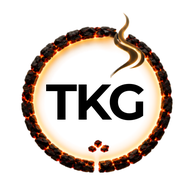
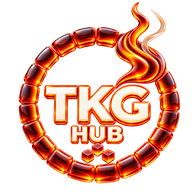
Add files via upload

diff --git a/leaderboard.html b/leaderboard.html
@@ -5,19 +5,17 @@
 <meta name="viewport" content="width=device-width, initial-scale=1, maximum-scale=1, viewport-fit=cover">
 <title>TKG — Khichiya Runner Leaderboard</title>
 <meta name="theme-color" content="#F6F6F5">
-<meta name="description" content="Khichiya Runner — see who's on top right now">
-
+<link rel="manifest" href="./manifest.json">
+<link rel="icon" type="image/png" sizes="32x32" href="./favicon-32.png">
+<link rel="apple-touch-icon" href="./icon-192.png">
 <!-- Theme sync — same anti-FOUC pattern moments_hub.html already uses:
      reads the shared tkg_theme localStorage key before first paint and
      sets data-tkg-theme on <html> immediately, so navigating here from
      another page keeps whichever theme the customer already chose
-     instead of flashing back to light. This page's own content styling
-     doesn't yet respond to dark mode (see :root comment above — no
-     [data-tkg-theme="dark"] override exists for it today, a deliberate,
-     previously-flagged scope decision), but the floating nav pill's
-     existing [data-tkg-theme="dark"] .tkg-global-nav rules were dead
-     code until now since nothing ever set the attribute — this makes
-     those already-written rules actually take effect. -->
+     instead of flashing back to light. The page background (marble)
+     and global ink colors now respond to this attribute too — see the
+     [data-tkg-theme="dark"] block in the styles below. -->
+<meta name="description" content="Khichiya Runner — see who's on top right now">
 <script>
 (function(){
   try{
@@ -87,15 +85,12 @@
   --max-w: 430px;
 
   /* Premium Marble tokens — ported from index.html for the "Visual
-     Alignment" sprint (Task 6). Static/light-only values only: unlike
-     index.html, leaderboard.html has no [data-tkg-theme="dark"] support
-     for its own content today (only .tkg-global-nav's copy-pasted rules
-     respond to dark theme) — adding the marble system's dark-theme pair
-     without the rest of the page also supporting dark theme would make
-     these specific cards flip color while everything around them stays
-     permanently light, which is a worse inconsistency than not
-     supporting dark theme at all. Flagging: full dark-theme support for
-     leaderboard.html would be a separate, larger task. */
+     Alignment" sprint (Task 6), used by card-level marble elements.
+     As of the page-marble-background update, leaderboard.html now DOES
+     have [data-tkg-theme="dark"] support (see the block below) — the
+     card-level marble stays in the deliberate "opposite of page"
+     direction from index.html, while the new page-level marble tokens
+     further down go the same direction as the theme. */
   --tkg-marble-bg-color: #0F0E0C;
   --tkg-marble-image: url('tkg-marble-black.jpg');
   --tkg-marble-overlay: rgba(0,0,0,0.42);
@@ -104,16 +99,42 @@
   --tkg-marble-ink-soft: rgba(242,239,234,0.72);
   --tkg-marble-ink-faint: rgba(242,239,234,0.55);
 
+  /* Page-level marble background — SAME direction as theme (light theme
+     = light marble page, dark theme = dark marble page), unlike the
+     card system above which deliberately goes the opposite direction.
+     Default here is the light-theme pair; the [data-tkg-theme="dark"]
+     block below swaps both the marble image AND the page-level ink
+     colors together so text stays readable against whichever marble
+     is showing. */
+  --tkg-page-marble-bg-color: #F5F3EE;
+  --tkg-page-marble-image: url('tkg-marble-white.jpg');
+  --tkg-page-marble-overlay: rgba(255,255,255,0.4);
+
   --font-display: 'Charcoal-Display', system-ui, -apple-system, 'Segoe UI', sans-serif;
   --font-body: -apple-system, BlinkMacSystemFont, 'Segoe UI', Roboto, Helvetica, Arial, sans-serif;
   --font-mono: 'SF Mono', 'Cascadia Mono', 'Consolas', monospace;
 }
+
+[data-tkg-theme="dark"]{
+  --tkg-page-marble-bg-color: #0F0E0C;
+  --tkg-page-marble-image: url('tkg-marble-black.jpg');
+  --tkg-page-marble-overlay: rgba(0,0,0,0.5);
+  --ink: #F2EFEA;
+  --ink-soft: rgba(242,239,234,0.72);
+  --ink-faint: rgba(242,239,234,0.55);
+}
+
 *{box-sizing:border-box; margin:0; padding:0;}
 html,body{
-  background:var(--stone-base);
+  background-color: var(--tkg-page-marble-bg-color);
+  background-image: linear-gradient(var(--tkg-page-marble-overlay), var(--tkg-page-marble-overlay)), var(--tkg-page-marble-image);
+  background-size: cover;
+  background-position: center;
+  background-attachment: fixed;
   color:var(--ink);
   font-family:var(--font-body);
   -webkit-tap-highlight-color:transparent;
+  transition: background-color 0.3s ease, color 0.3s ease;
 }
 body{
   min-height:100vh;

diff --git a/moments_hub.html b/moments_hub.html
@@ -5,6 +5,9 @@
 <meta name="viewport" content="width=device-width, initial-scale=1, maximum-scale=1, viewport-fit=cover">
 <title>TKG Moments Hub — The Khichiya Gravy</title>
 <meta name="theme-color" content="#000000">
+<link rel="manifest" href="./manifest.json">
+<link rel="icon" type="image/png" sizes="32x32" href="./favicon-32.png">
+<link rel="apple-touch-icon" href="./icon-192.png">
 <meta name="apple-mobile-web-app-capable" content="yes">
 
 <script>
@@ -158,6 +161,19 @@ body {
   font-weight: 800;
   letter-spacing: -0.3px;
   color: var(--text-primary);
+}
+
+.hub-header-brand {
+  display: flex;
+  align-items: center;
+  gap: 10px;
+}
+
+.hub-header-badge {
+  width: 40px;
+  height: 40px;
+  flex-shrink: 0;
+  object-fit: contain;
 }
 
 .hub-tagline {
@@ -993,9 +1009,12 @@ body.dark-mode .tkg-nav-item.active {
 <div class="hub-container">
   <!-- HEADER -->
   <header class="hub-header">
-    <div>
-      <div class="hub-logo">The Khichiya Gravy</div>
-      <div class="hub-tagline" id="hubTagline">Gallery from the community</div>
+    <div class="hub-header-brand">
+      <img src="./tkg-hub-header.png" alt="" class="hub-header-badge" aria-hidden="true">
+      <div>
+        <div class="hub-logo">The Khichiya Gravy</div>
+        <div class="hub-tagline" id="hubTagline">Gallery from the community</div>
+      </div>
     </div>
     <button class="theme-toggle-btn" id="themeToggleBtn" aria-label="Toggle theme">
       <svg id="themeToggleIconSun" viewBox="0 0 24 24" style="display:none;">

diff --git a/khichiya-runner.html b/khichiya-runner.html
@@ -4,6 +4,9 @@
 <meta charset="UTF-8">
 <meta name="viewport" content="width=device-width, initial-scale=1, maximum-scale=1, viewport-fit=cover">
 <title>Khichiya Runner — TKG</title>
+<link rel="manifest" href="./manifest.json">
+<link rel="icon" type="image/png" sizes="32x32" href="./favicon-32.png">
+<link rel="apple-touch-icon" href="./icon-192.png">
 
 <!-- Theme sync — same anti-FOUC pattern moments_hub.html/leaderboard.html
      use, so the shared tkg_theme choice carries across from index.html.
@@ -625,7 +628,7 @@ if (window.TKGShared) TKGShared.logEvent('runner', 'opened');
             <span class="runner-spark" style="--spark-drift:6px"></span>
           </div>
           <div class="runner-cinematic-content">
-            <img class="runner-cinematic-logo" src="./icon-192.png" alt="TKG">
+            <img class="runner-cinematic-logo" src="./tkr-runner-icon.png" alt="TKR">
             <div class="runner-cinematic-title">Khichiya <span>Runner</span></div>
           </div>
           <div class="runner-cinematic-tap-hint">Tap to skip</div>

diff --git a/index.html b/index.html
@@ -7,6 +7,7 @@
 <meta name="theme-color" content="#0B0B0C">
 <meta name="description" content="The Khichiya Gravy — menu, registration and visit tracking">
 <link rel="manifest" href="./manifest.json">
+<link rel="icon" type="image/png" sizes="32x32" href="./favicon-32.png">
 <link rel="apple-touch-icon" href="./icon-192.png">
 <meta name="apple-mobile-web-app-capable" content="yes">
 <meta name="apple-mobile-web-app-status-bar-style" content="black-translucent">

diff --git a/moments.html b/moments.html
@@ -5,6 +5,9 @@
 <meta name="viewport" content="width=device-width, initial-scale=1, maximum-scale=1, viewport-fit=cover">
 <title>The Khichiya Gravy — Moments</title>
 <meta name="theme-color" content="#000000">
+<link rel="manifest" href="./manifest.json">
+<link rel="icon" type="image/png" sizes="32x32" href="./favicon-32.png">
+<link rel="apple-touch-icon" href="./icon-192.png">
 <meta name="apple-mobile-web-app-capable" content="yes">
 
 <script>
